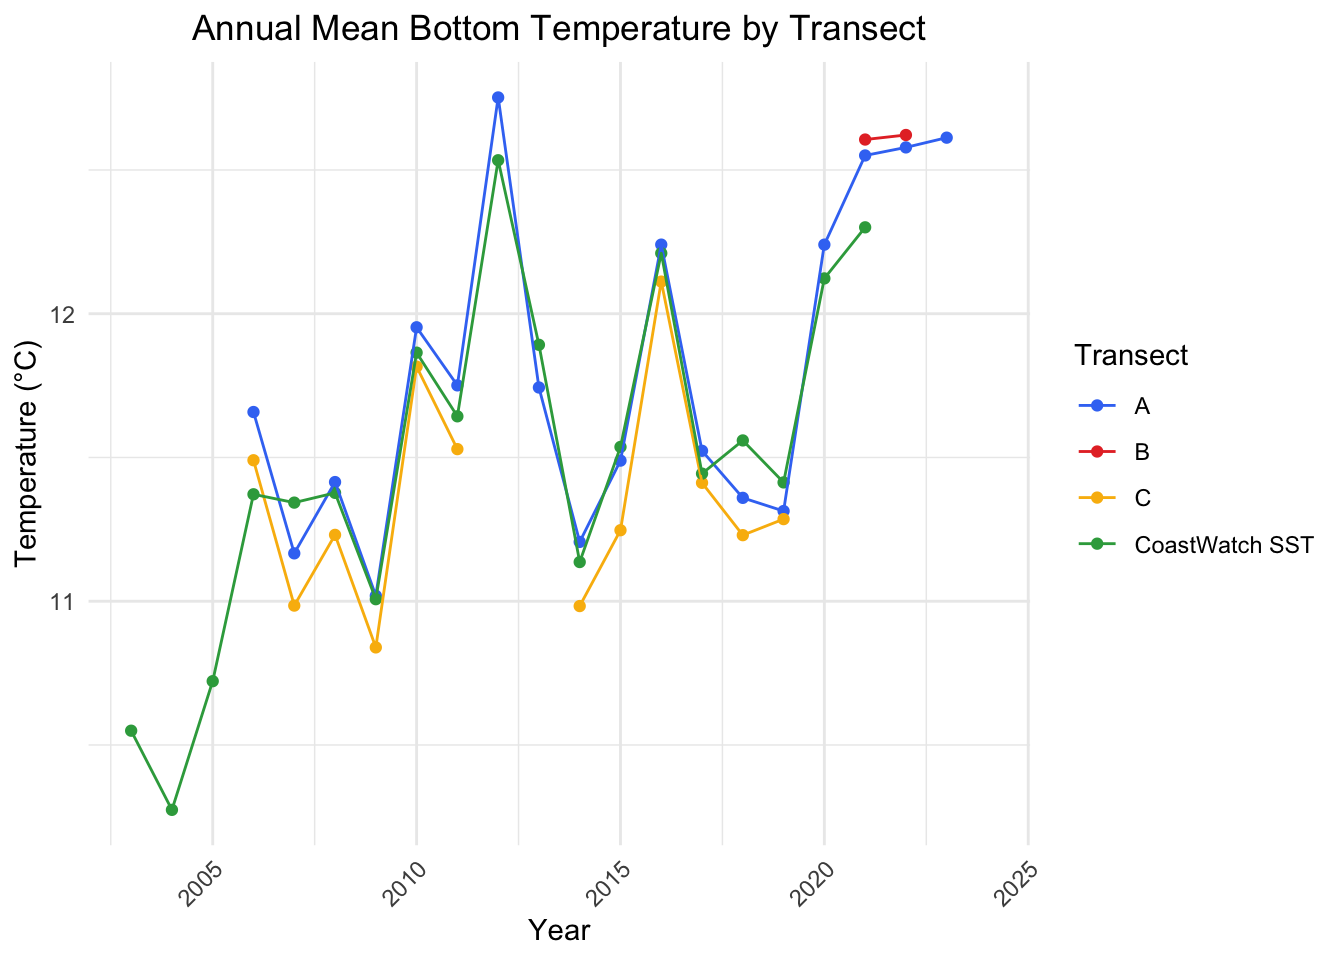
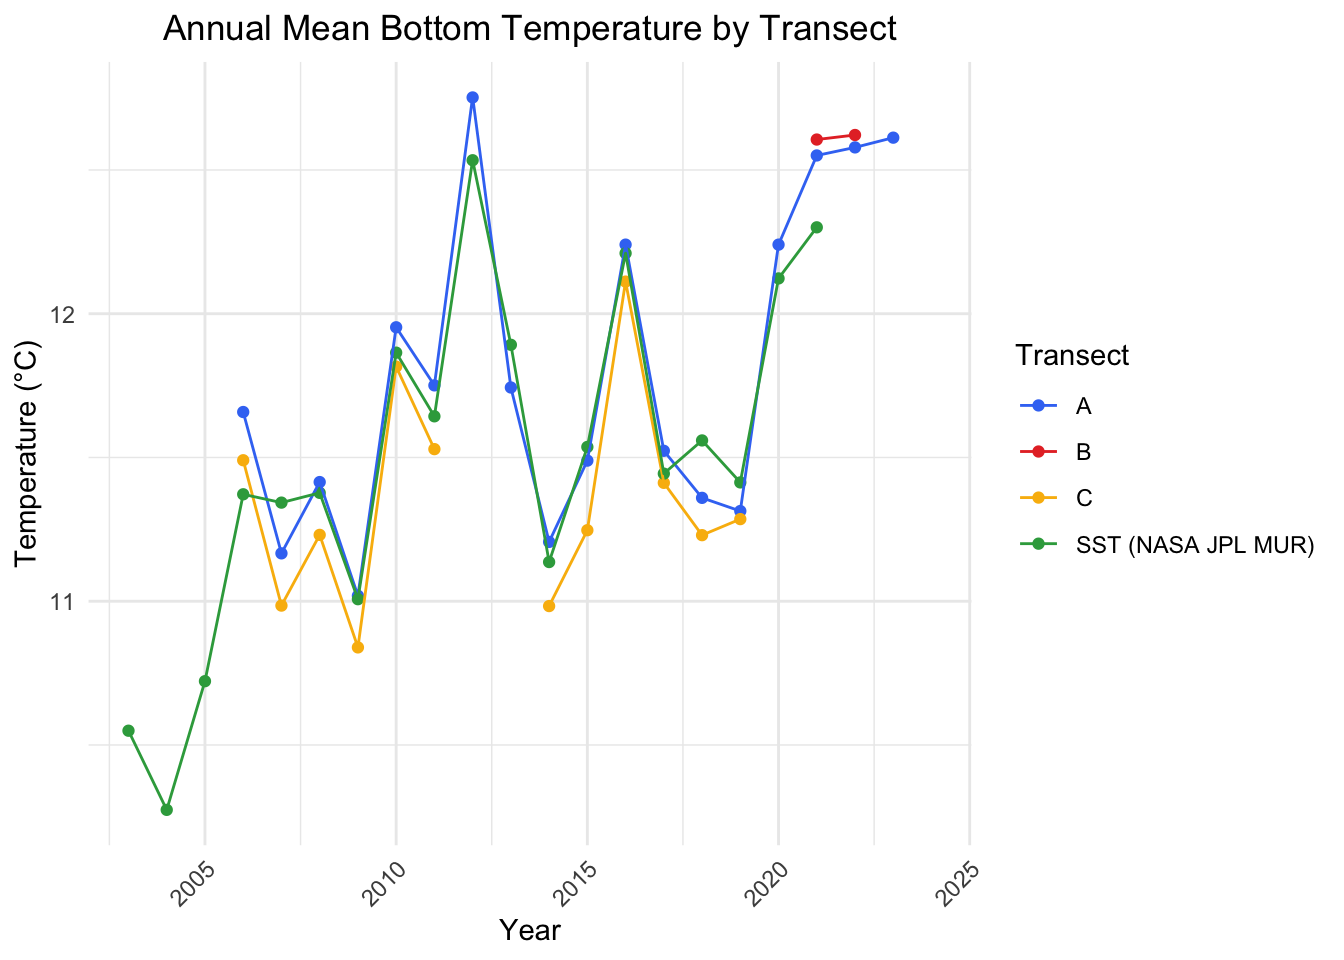
Change legend label of NASA JPL MUR SST dataset

diff --git a/quarto_docs/nps_eelgrass_monitor.html b/quarto_docs/nps_eelgrass_monitor.html
@@ -817,32 +817,34 @@ pre > code.sourceCode > span > a:first-child::before { text-decoration: underlin
 <div class="sourceCode cell-code" id="cb19"><pre class="sourceCode r code-with-copy"><code class="sourceCode r"><span id="cb19-1"><a href="#cb19-1" aria-hidden="true" tabindex="-1"></a><span class="co"># Compare transect annual mean temps to remote sensing SST</span></span>
 <span id="cb19-2"><a href="#cb19-2" aria-hidden="true" tabindex="-1"></a></span>
 <span id="cb19-3"><a href="#cb19-3" aria-hidden="true" tabindex="-1"></a><span class="co"># Load NOAA CoastWatch SST data for gps point near Duck Harbor (41.94, -70.09)</span></span>
-<span id="cb19-4"><a href="#cb19-4" aria-hidden="true" tabindex="-1"></a><span class="co"># Originally accessed via NOAA CoastWatch ERDDAP</span></span>
-<span id="cb19-5"><a href="#cb19-5" aria-hidden="true" tabindex="-1"></a><span class="co"># https://coastwatch.noaa.gov/erddap/info/noaacwecnMURdaily/index.html</span></span>
-<span id="cb19-6"><a href="#cb19-6" aria-hidden="true" tabindex="-1"></a>sst_data_dh <span class="ot">&lt;-</span> <span class="fu">read_csv</span>(<span class="st">"data/noaa_coastwatch_sst/sst_data_dh.csv"</span>) <span class="sc">|&gt;</span> <span class="fu">mutate</span>(<span class="at">site =</span> <span class="st">"duck_harbor"</span>) <span class="sc">|&gt;</span> </span>
-<span id="cb19-7"><a href="#cb19-7" aria-hidden="true" tabindex="-1"></a>  <span class="fu">mutate</span>(<span class="at">Year =</span> <span class="fu">year</span>(time))</span>
-<span id="cb19-8"><a href="#cb19-8" aria-hidden="true" tabindex="-1"></a></span>
-<span id="cb19-9"><a href="#cb19-9" aria-hidden="true" tabindex="-1"></a><span class="co"># Calculate annual means and restructure data to match transect data frame</span></span>
-<span id="cb19-10"><a href="#cb19-10" aria-hidden="true" tabindex="-1"></a>sst_dh_annual <span class="ot">&lt;-</span>sst_data_dh <span class="sc">|&gt;</span> </span>
-<span id="cb19-11"><a href="#cb19-11" aria-hidden="true" tabindex="-1"></a>  <span class="fu">group_by</span>(Year) <span class="sc">|&gt;</span> </span>
-<span id="cb19-12"><a href="#cb19-12" aria-hidden="true" tabindex="-1"></a>  <span class="fu">summarize</span>(<span class="at">Temp_C =</span> <span class="fu">mean</span>(sst), <span class="at">.groups =</span> <span class="st">"drop"</span>) <span class="sc">|&gt;</span> </span>
-<span id="cb19-13"><a href="#cb19-13" aria-hidden="true" tabindex="-1"></a>  <span class="fu">mutate</span>(<span class="at">Transect =</span> <span class="st">"CoastWatch SST"</span>) <span class="sc">|&gt;</span> </span>
-<span id="cb19-14"><a href="#cb19-14" aria-hidden="true" tabindex="-1"></a>  <span class="fu">relocate</span>(Transect, <span class="at">.after =</span> Year)</span>
-<span id="cb19-15"><a href="#cb19-15" aria-hidden="true" tabindex="-1"></a></span>
-<span id="cb19-16"><a href="#cb19-16" aria-hidden="true" tabindex="-1"></a><span class="co"># Bind temperature data frames</span></span>
-<span id="cb19-17"><a href="#cb19-17" aria-hidden="true" tabindex="-1"></a>water_temp_annual <span class="ot">&lt;-</span> water_temp_annual <span class="sc">|&gt;</span> </span>
-<span id="cb19-18"><a href="#cb19-18" aria-hidden="true" tabindex="-1"></a>  <span class="fu">bind_rows</span>(sst_dh_annual)</span>
-<span id="cb19-19"><a href="#cb19-19" aria-hidden="true" tabindex="-1"></a></span>
-<span id="cb19-20"><a href="#cb19-20" aria-hidden="true" tabindex="-1"></a><span class="co"># Plot annual mean temperatures</span></span>
-<span id="cb19-21"><a href="#cb19-21" aria-hidden="true" tabindex="-1"></a><span class="fu">ggplot</span>(water_temp_annual,</span>
-<span id="cb19-22"><a href="#cb19-22" aria-hidden="true" tabindex="-1"></a>       <span class="fu">aes</span>(<span class="at">x =</span> Year, <span class="at">y =</span> Temp_C, <span class="at">color =</span> Transect)) <span class="sc">+</span></span>
-<span id="cb19-23"><a href="#cb19-23" aria-hidden="true" tabindex="-1"></a>  <span class="fu">geom_point</span>() <span class="sc">+</span></span>
-<span id="cb19-24"><a href="#cb19-24" aria-hidden="true" tabindex="-1"></a>  <span class="fu">geom_line</span>() <span class="sc">+</span></span>
-<span id="cb19-25"><a href="#cb19-25" aria-hidden="true" tabindex="-1"></a>  <span class="fu">labs</span>(</span>
-<span id="cb19-26"><a href="#cb19-26" aria-hidden="true" tabindex="-1"></a>    <span class="at">title =</span> <span class="st">"Annual Mean Bottom Temperature by Transect"</span>, </span>
-<span id="cb19-27"><a href="#cb19-27" aria-hidden="true" tabindex="-1"></a>    <span class="at">y =</span> <span class="st">"Temperature (°C)"</span></span>
-<span id="cb19-28"><a href="#cb19-28" aria-hidden="true" tabindex="-1"></a>  ) <span class="sc">+</span></span>
-<span id="cb19-29"><a href="#cb19-29" aria-hidden="true" tabindex="-1"></a>  <span class="fu">scale_color_paletteer_d</span>(<span class="st">"yarrr::google"</span>)</span></code><button title="Copy to Clipboard" class="code-copy-button"><i class="bi"></i></button></pre></div>
+<span id="cb19-4"><a href="#cb19-4" aria-hidden="true" tabindex="-1"></a><span class="co"># (NASA Jet Propulsion Laboratory’s (JPL) Multi-scale Ultra-high Resolution (MUR) </span></span>
+<span id="cb19-5"><a href="#cb19-5" aria-hidden="true" tabindex="-1"></a><span class="co">#  Sea Surface Temperature Daily 1km East Coast EEZ data set.)</span></span>
+<span id="cb19-6"><a href="#cb19-6" aria-hidden="true" tabindex="-1"></a><span class="co"># Originally accessed via NOAA CoastWatch ERDDAP</span></span>
+<span id="cb19-7"><a href="#cb19-7" aria-hidden="true" tabindex="-1"></a><span class="co"># https://coastwatch.noaa.gov/erddap/info/noaacwecnMURdaily/index.html</span></span>
+<span id="cb19-8"><a href="#cb19-8" aria-hidden="true" tabindex="-1"></a>sst_data_dh <span class="ot">&lt;-</span> <span class="fu">read_csv</span>(<span class="st">"data/noaa_coastwatch_sst/sst_data_dh.csv"</span>) <span class="sc">|&gt;</span> <span class="fu">mutate</span>(<span class="at">site =</span> <span class="st">"duck_harbor"</span>) <span class="sc">|&gt;</span> </span>
+<span id="cb19-9"><a href="#cb19-9" aria-hidden="true" tabindex="-1"></a>  <span class="fu">mutate</span>(<span class="at">Year =</span> <span class="fu">year</span>(time))</span>
+<span id="cb19-10"><a href="#cb19-10" aria-hidden="true" tabindex="-1"></a></span>
+<span id="cb19-11"><a href="#cb19-11" aria-hidden="true" tabindex="-1"></a><span class="co"># Calculate annual means and restructure data to match transect data frame</span></span>
+<span id="cb19-12"><a href="#cb19-12" aria-hidden="true" tabindex="-1"></a>sst_dh_annual <span class="ot">&lt;-</span>sst_data_dh <span class="sc">|&gt;</span> </span>
+<span id="cb19-13"><a href="#cb19-13" aria-hidden="true" tabindex="-1"></a>  <span class="fu">group_by</span>(Year) <span class="sc">|&gt;</span> </span>
+<span id="cb19-14"><a href="#cb19-14" aria-hidden="true" tabindex="-1"></a>  <span class="fu">summarize</span>(<span class="at">Temp_C =</span> <span class="fu">mean</span>(sst), <span class="at">.groups =</span> <span class="st">"drop"</span>) <span class="sc">|&gt;</span> </span>
+<span id="cb19-15"><a href="#cb19-15" aria-hidden="true" tabindex="-1"></a>  <span class="fu">mutate</span>(<span class="at">Transect =</span> <span class="st">"SST (NASA JPL MUR)"</span>) <span class="sc">|&gt;</span> </span>
+<span id="cb19-16"><a href="#cb19-16" aria-hidden="true" tabindex="-1"></a>  <span class="fu">relocate</span>(Transect, <span class="at">.after =</span> Year)</span>
+<span id="cb19-17"><a href="#cb19-17" aria-hidden="true" tabindex="-1"></a></span>
+<span id="cb19-18"><a href="#cb19-18" aria-hidden="true" tabindex="-1"></a><span class="co"># Bind temperature data frames</span></span>
+<span id="cb19-19"><a href="#cb19-19" aria-hidden="true" tabindex="-1"></a>water_temp_annual <span class="ot">&lt;-</span> water_temp_annual <span class="sc">|&gt;</span> </span>
+<span id="cb19-20"><a href="#cb19-20" aria-hidden="true" tabindex="-1"></a>  <span class="fu">bind_rows</span>(sst_dh_annual)</span>
+<span id="cb19-21"><a href="#cb19-21" aria-hidden="true" tabindex="-1"></a></span>
+<span id="cb19-22"><a href="#cb19-22" aria-hidden="true" tabindex="-1"></a><span class="co"># Plot annual mean temperatures</span></span>
+<span id="cb19-23"><a href="#cb19-23" aria-hidden="true" tabindex="-1"></a><span class="fu">ggplot</span>(water_temp_annual,</span>
+<span id="cb19-24"><a href="#cb19-24" aria-hidden="true" tabindex="-1"></a>       <span class="fu">aes</span>(<span class="at">x =</span> Year, <span class="at">y =</span> Temp_C, <span class="at">color =</span> Transect)) <span class="sc">+</span></span>
+<span id="cb19-25"><a href="#cb19-25" aria-hidden="true" tabindex="-1"></a>  <span class="fu">geom_point</span>() <span class="sc">+</span></span>
+<span id="cb19-26"><a href="#cb19-26" aria-hidden="true" tabindex="-1"></a>  <span class="fu">geom_line</span>() <span class="sc">+</span></span>
+<span id="cb19-27"><a href="#cb19-27" aria-hidden="true" tabindex="-1"></a>  <span class="fu">labs</span>(</span>
+<span id="cb19-28"><a href="#cb19-28" aria-hidden="true" tabindex="-1"></a>    <span class="at">title =</span> <span class="st">"Annual Mean Bottom Temperature by Transect"</span>, </span>
+<span id="cb19-29"><a href="#cb19-29" aria-hidden="true" tabindex="-1"></a>    <span class="at">y =</span> <span class="st">"Temperature (°C)"</span></span>
+<span id="cb19-30"><a href="#cb19-30" aria-hidden="true" tabindex="-1"></a>  ) <span class="sc">+</span></span>
+<span id="cb19-31"><a href="#cb19-31" aria-hidden="true" tabindex="-1"></a>  <span class="fu">scale_color_paletteer_d</span>(<span class="st">"yarrr::google"</span>)</span></code><button title="Copy to Clipboard" class="code-copy-button"><i class="bi"></i></button></pre></div>
 </details>
 <div class="cell-output-display">
 <div>
